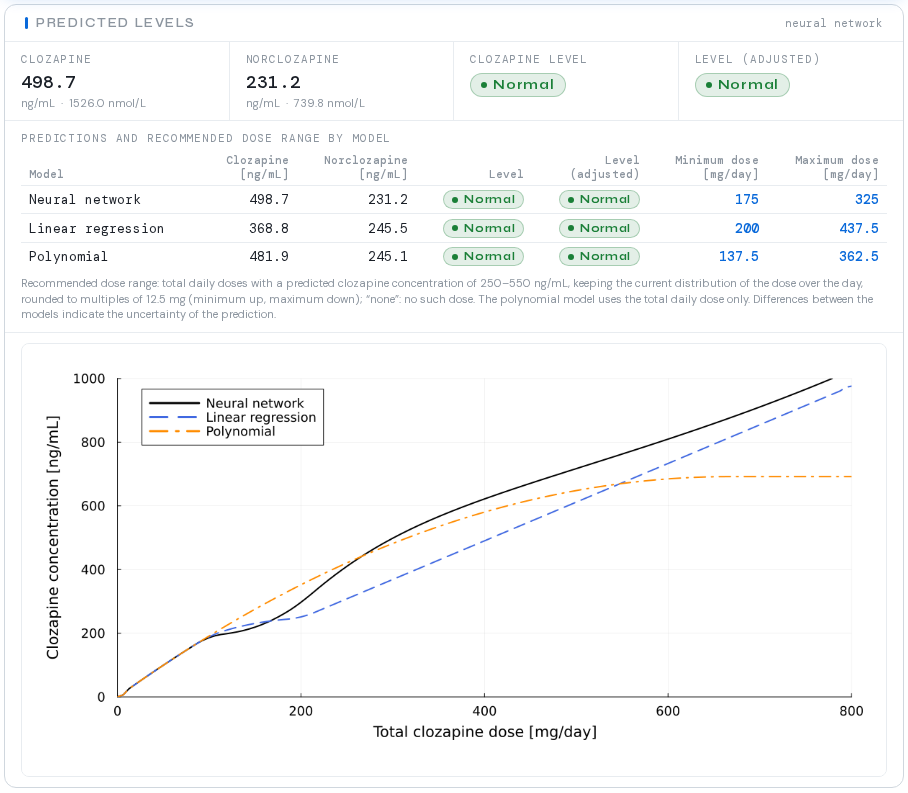
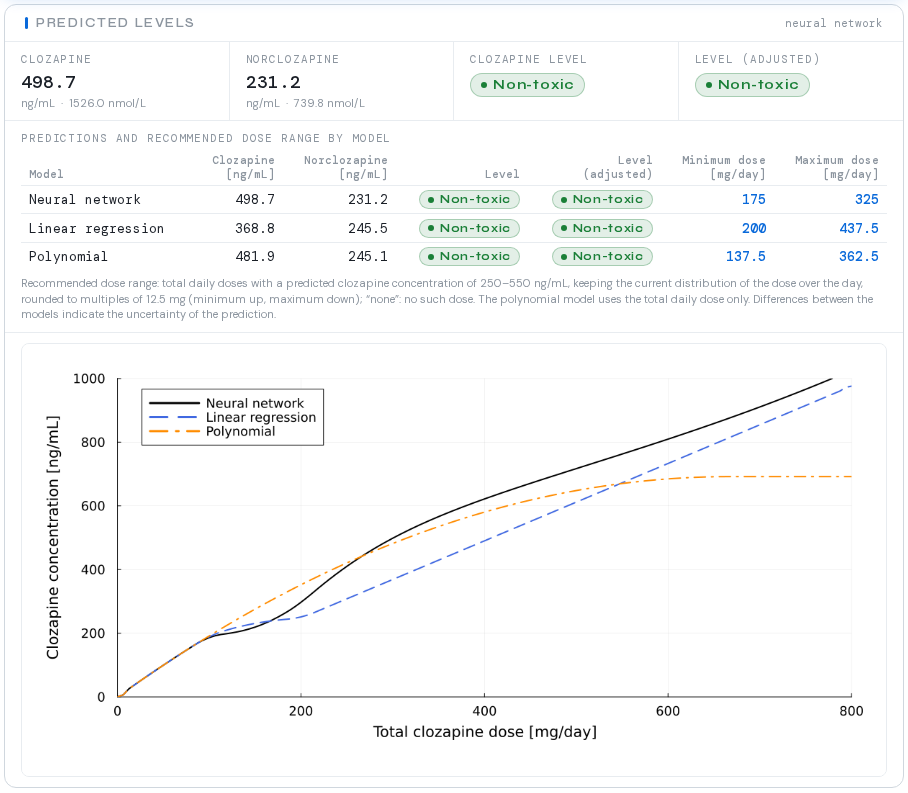
update

diff --git a/index.html b/index.html
@@ -848,7 +848,7 @@
 
       function badge(val) {
         const isNormal = val == 0;
-        return `<span class="result-badge ${isNormal ? 'normal' : 'toxic'}">${isNormal ? 'Normal' : 'Toxic'}</span>`;
+        return `<span class="result-badge ${isNormal ? 'normal' : 'toxic'}">${isNormal ? 'Non-toxic' : 'Toxic'}</span>`;
       }
 
       const rows = models.map(m => `
